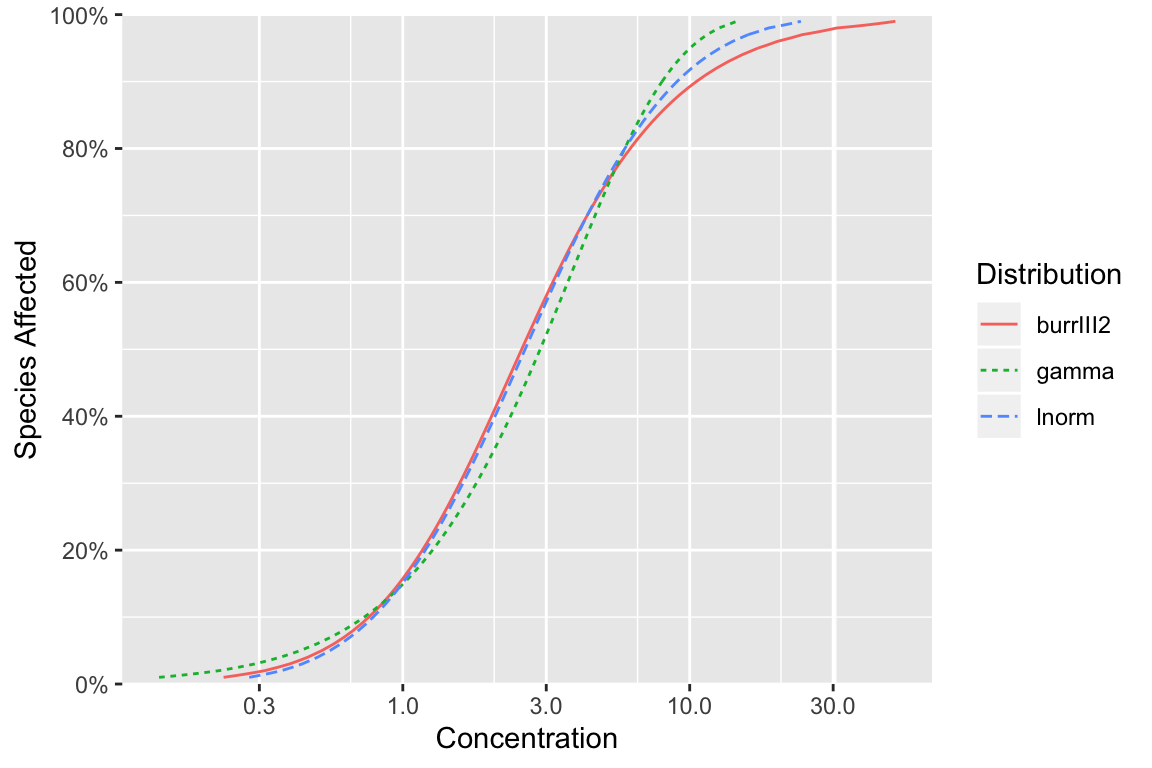
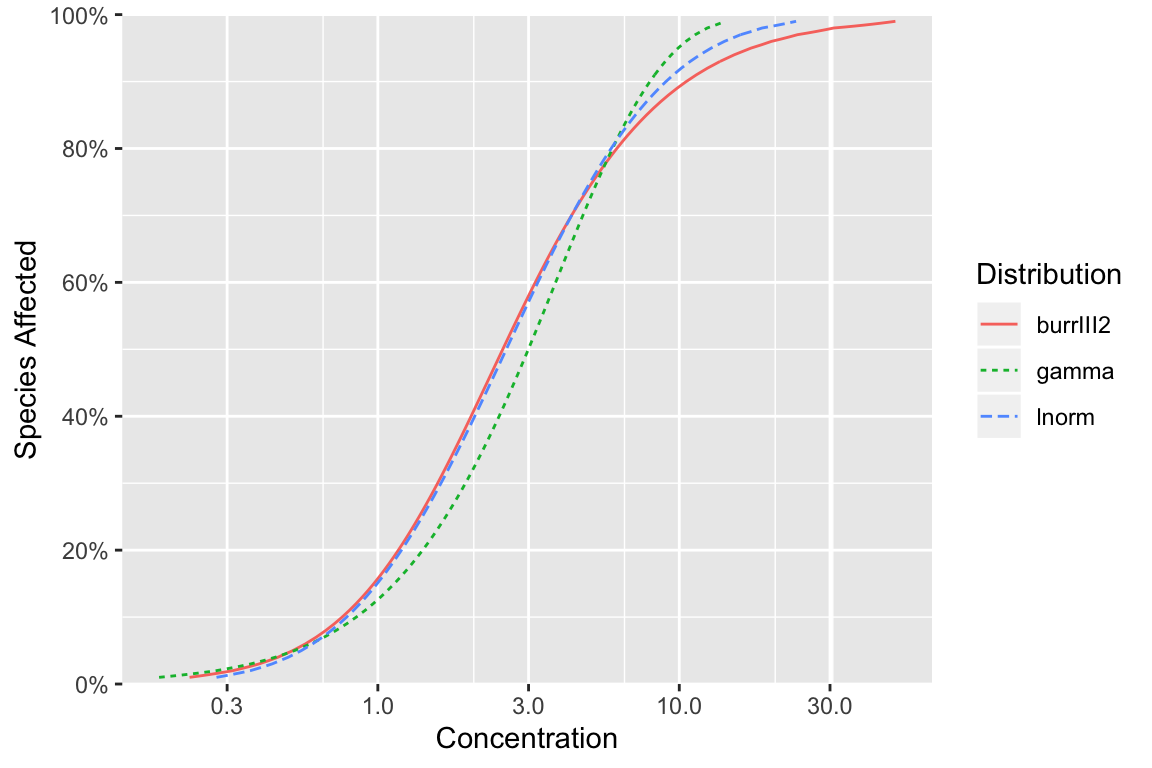
docs

diff --git a/docs/articles/distributions.html b/docs/articles/distributions.html
@@ -128,7 +128,8 @@ However, if two or more similar models fit the data well then the support for th
 <div class="sourceCode" id="cb1"><pre class="sourceCode r"><code class="sourceCode r"><span id="cb1-1"><a href="#cb1-1"></a><span class="kw"><a href="https://rdrr.io/r/base/library.html">library</a></span>(ssdtools)</span>
 <span id="cb1-2"><a href="#cb1-2"></a><span class="kw"><a href="https://rdrr.io/r/base/library.html">library</a></span>(ggplot2)</span>
 <span id="cb1-3"><a href="#cb1-3"></a></span>
-<span id="cb1-4"><a href="#cb1-4"></a><span class="kw"><a href="../reference/ssd_plot_cdf.html">ssd_plot_cdf</a></span>(<span class="kw"><a href="../reference/ssd_match_moments.html">ssd_match_moments</a></span>())</span></code></pre></div>
+<span id="cb1-4"><a href="#cb1-4"></a><span class="kw"><a href="https://rdrr.io/r/base/Random.html">set.seed</a></span>(<span class="dv">7</span>)</span>
+<span id="cb1-5"><a href="#cb1-5"></a><span class="kw"><a href="../reference/ssd_plot_cdf.html">ssd_plot_cdf</a></span>(<span class="kw"><a href="../reference/ssd_match_moments.html">ssd_match_moments</a></span>())</span></code></pre></div>
 <p><img src="distributions_files/figure-html/unnamed-chunk-2-1.png" width="576"></p>
 <div id="log-normal-distribution" class="section level3">
 <h3 class="hasAnchor">
@@ -151,11 +152,12 @@ However, if two or more similar models fit the data well then the support for th
 <div id="all-distributions" class="section level2">
 <h2 class="hasAnchor">
 <a href="#all-distributions" class="anchor"></a>All Distributions</h2>
-<p>For completeness the hazard concentrations for all the distributions that have been tested with <code>ssdtools</code> are plotted below with their default parameter values (by default the gamma and weibull distributions are identical).</p>
-<div class="sourceCode" id="cb2"><pre class="sourceCode r"><code class="sourceCode r"><span id="cb2-1"><a href="#cb2-1"></a><span class="kw"><a href="../reference/ssd_plot_cdf.html">ssd_plot_cdf</a></span>(<span class="kw"><a href="../reference/ssd_match_moments.html">ssd_match_moments</a></span>(<span class="dt">dists =</span> <span class="kw"><a href="https://rdrr.io/r/base/c.html">c</a></span>(<span class="st">"burrIII2"</span>, <span class="st">"burrIII3"</span>, <span class="st">"gamma"</span>,</span>
-<span id="cb2-2"><a href="#cb2-2"></a>                  <span class="st">"gompertz"</span>, <span class="st">"lgumbel"</span>, <span class="st">"llogis"</span>,</span>
-<span id="cb2-3"><a href="#cb2-3"></a>                  <span class="st">"lnorm"</span>, <span class="st">"pareto"</span>, <span class="st">"weibull"</span>))) <span class="op">+</span></span>
-<span id="cb2-4"><a href="#cb2-4"></a><span class="st">  </span><span class="kw"><a href="https://ggplot2.tidyverse.org/reference/theme.html">theme</a></span>(<span class="dt">legend.position =</span> <span class="st">"bottom"</span>)</span></code></pre></div>
+<p>For completeness the hazard concentrations for the other distributions provided by <code>ssdtools</code> are plotted below with a mean of 1 and standard deviation of 1 on the log concentration scale.</p>
+<div class="sourceCode" id="cb2"><pre class="sourceCode r"><code class="sourceCode r"><span id="cb2-1"><a href="#cb2-1"></a><span class="kw"><a href="https://rdrr.io/r/base/Random.html">set.seed</a></span>(<span class="dv">7</span>)</span>
+<span id="cb2-2"><a href="#cb2-2"></a><span class="kw"><a href="../reference/ssd_plot_cdf.html">ssd_plot_cdf</a></span>(<span class="kw"><a href="../reference/ssd_match_moments.html">ssd_match_moments</a></span>(<span class="dt">dists =</span> <span class="kw"><a href="https://rdrr.io/r/base/c.html">c</a></span>(<span class="st">"burrIII2"</span>, <span class="st">"burrIII3"</span>, <span class="st">"gamma"</span>,</span>
+<span id="cb2-3"><a href="#cb2-3"></a>                  <span class="st">"gompertz"</span>, <span class="st">"lgumbel"</span>, <span class="st">"llogis"</span>,</span>
+<span id="cb2-4"><a href="#cb2-4"></a>                  <span class="st">"lnorm"</span>, <span class="st">"weibull"</span>))) <span class="op">+</span></span>
+<span id="cb2-5"><a href="#cb2-5"></a><span class="st">  </span><span class="kw"><a href="https://ggplot2.tidyverse.org/reference/theme.html">theme</a></span>(<span class="dt">legend.position =</span> <span class="st">"bottom"</span>)</span></code></pre></div>
 <p><img src="distributions_files/figure-html/unnamed-chunk-3-1.png" width="576"></p>
 </div>
 <div id="references" class="section level2">
